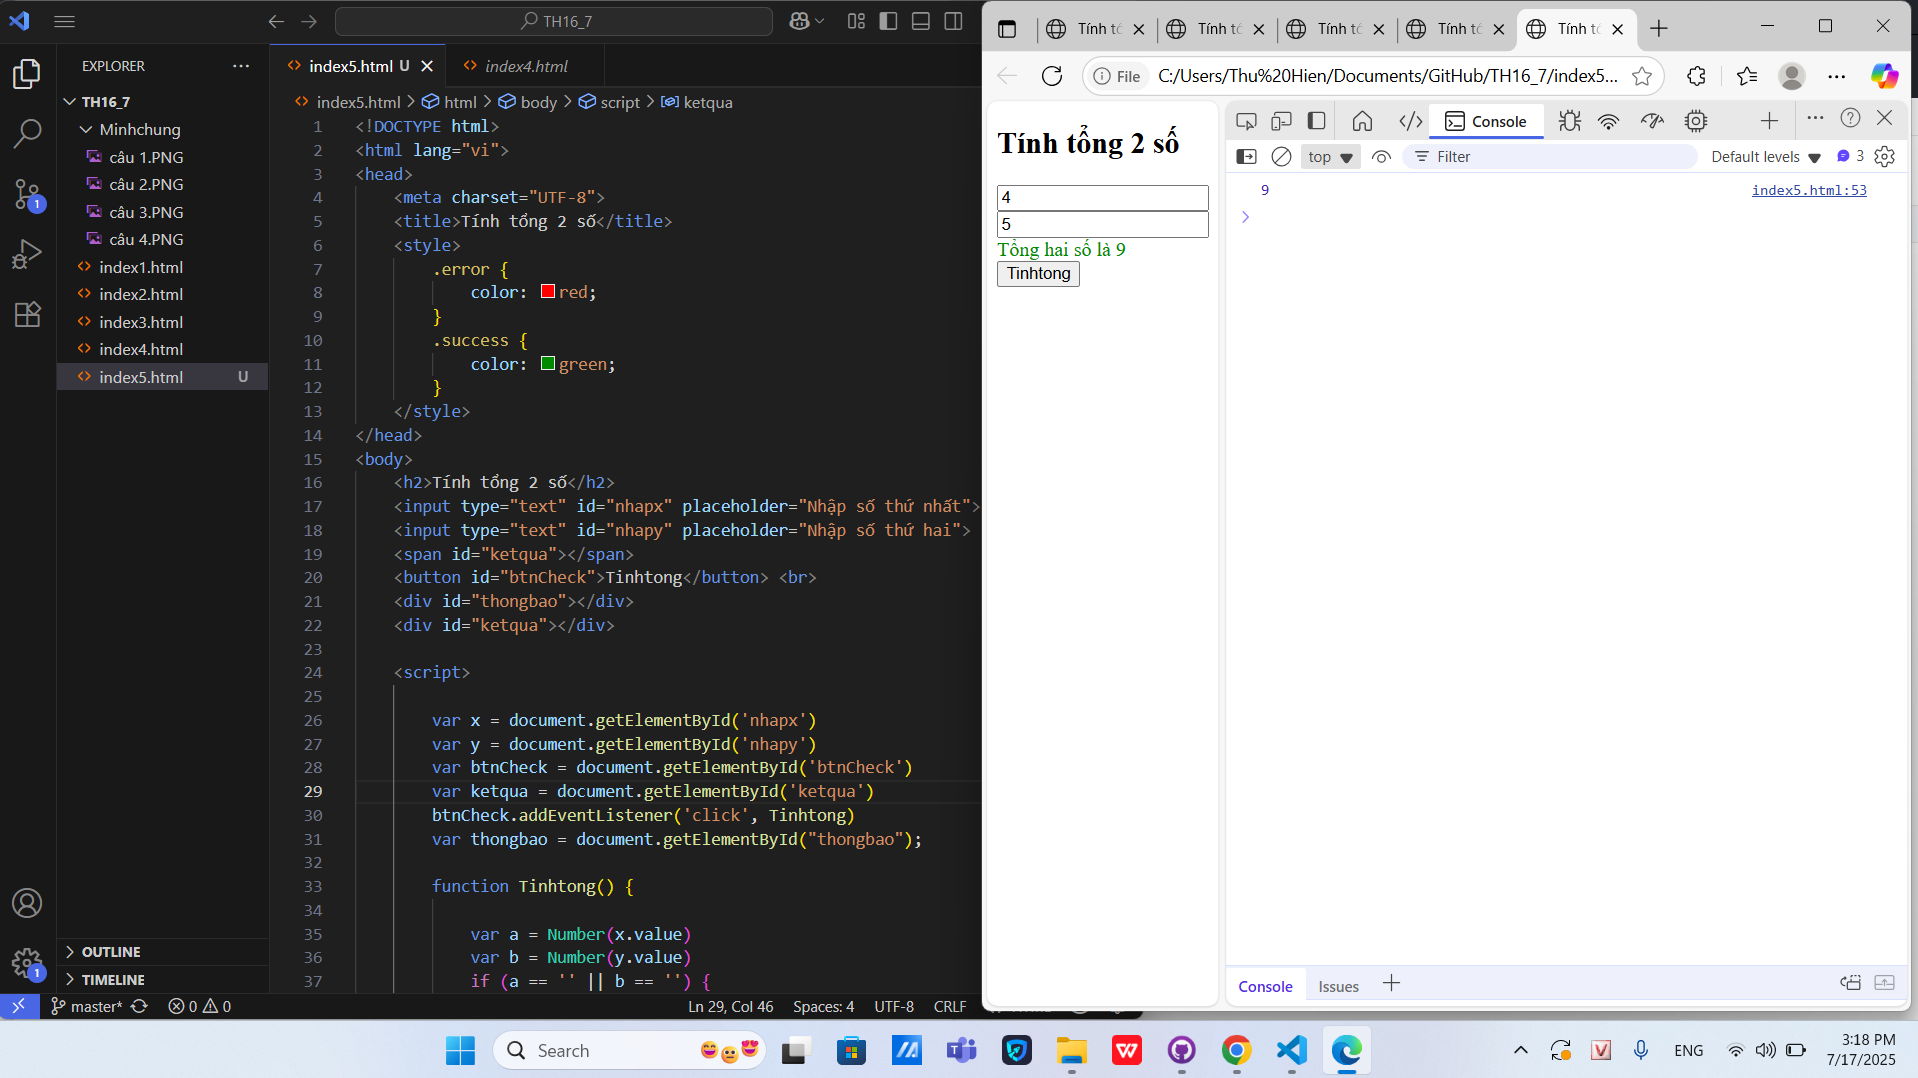
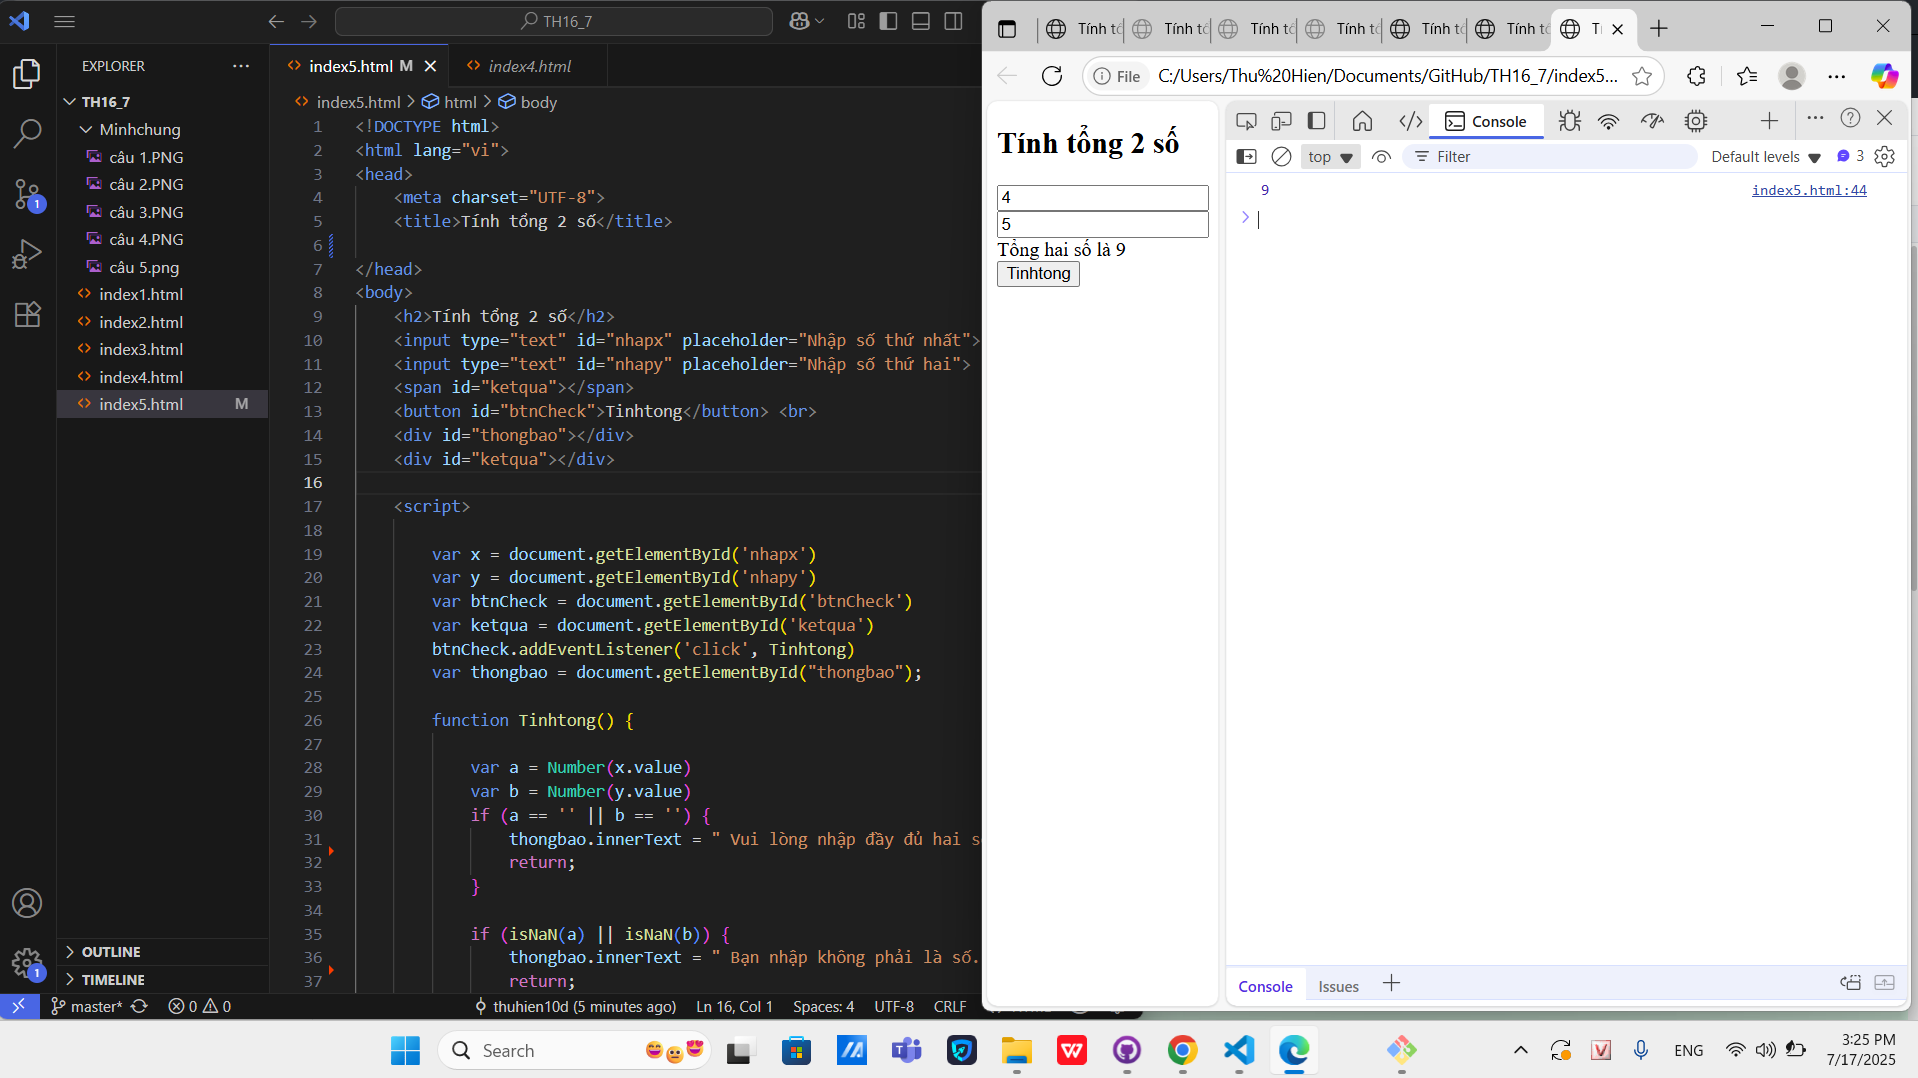
add file index5.html + Minhchung5

diff --git a/index5.html b/index5.html
@@ -3,14 +3,7 @@
 <head>
     <meta charset="UTF-8">
     <title>Tính tổng 2 số</title>
-    <style>
-        .error {
-            color: red;
-        }
-        .success {
-            color: green;
-        }
-    </style>
+
 </head>
 <body>
     <h2>Tính tổng 2 số</h2>
@@ -36,13 +29,11 @@
             var b = Number(y.value)
             if (a == '' || b == '') {
                 thongbao.innerText = " Vui lòng nhập đầy đủ hai số.";
-                thongbao.className = 'error';
                 return;
             }
 
             if (isNaN(a) || isNaN(b)) {
                 thongbao.innerText = " Bạn nhập không phải là số.";
-                thongbao.className = 'error';
                 return;
             }
 
@@ -52,7 +43,6 @@
             var tong = a + b;
             console.log(tong)
             ketqua.innerText = " Tổng hai số là " + tong;
-            ketqua.className = 'success';
         };
     </script>
 </body>
